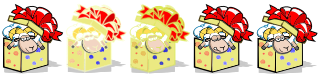
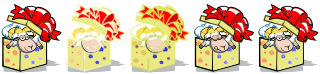
Alteração da imagem do fundo do menu inicial.

diff --git a/core/src/br/com/chickenroad/screens/util/Constantes.java b/core/src/br/com/chickenroad/screens/util/Constantes.java
@@ -16,7 +16,7 @@ public class Constantes {
 	public static final int WIDTH_BACK_BUTTON = 78;
 
 	public static final String URL_BACK_BUTTON = "backButton.png";	
-	public static final String URL_BACKGROUND = "backgroundMenu.jpg";
+	public static final String URL_BACKGROUND = "backgroundMenu.png";
 	public static final String URL_BACKGROUND_SEASON = "backgroundSeason.png";
 	public static final String URL_PLAY_BUTTON = "playButton.png";
 	public static final String URL_EXIT_BUTTON = "exitButton.png";
